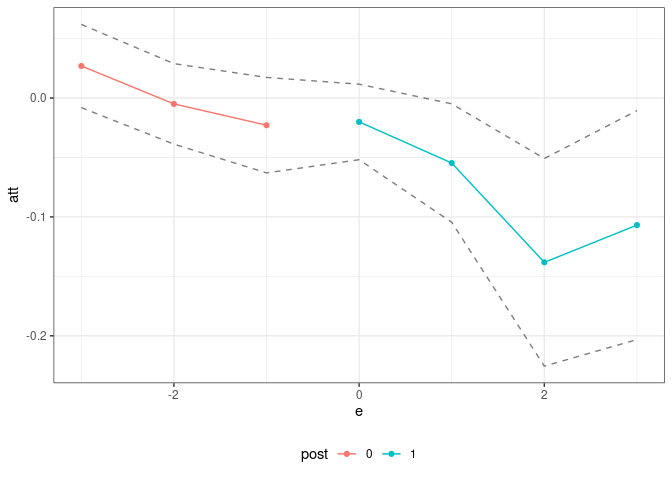
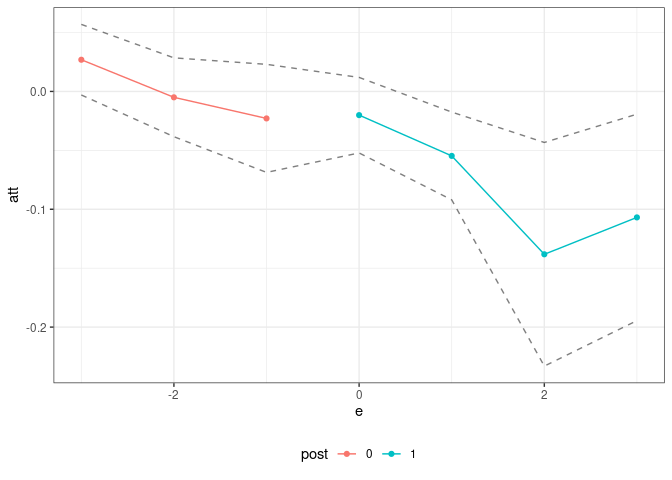
updated documentation

diff --git a/README.md b/README.md
@@ -37,18 +37,18 @@ summary(did_res)
 #> 
 #> Overall ATT:  
 #>      ATT    Std. Error     [ 95%  Conf. Int.]  
-#>  -0.0323        0.0107    -0.0532     -0.0113 *
+#>  -0.0323        0.0131    -0.0579     -0.0066 *
 #> 
 #> 
 #> Dynamic Effects:
 #>  Event Time Estimate Std. Error   [95%  Conf. Band]  
-#>          -3   0.0269     0.0122 -0.0081      0.0619  
-#>          -2  -0.0050     0.0118 -0.0388      0.0289  
-#>          -1  -0.0229     0.0140 -0.0630      0.0173  
-#>           0  -0.0201     0.0111 -0.0519      0.0116  
-#>           1  -0.0547     0.0174 -0.1045     -0.0049 *
-#>           2  -0.1382     0.0305 -0.2255     -0.0509 *
-#>           3  -0.1069     0.0337 -0.2032     -0.0106 *
+#>          -3   0.0269     0.0108 -0.0030      0.0569  
+#>          -2  -0.0050     0.0120 -0.0384      0.0285  
+#>          -1  -0.0229     0.0165 -0.0687      0.0230  
+#>           0  -0.0201     0.0115 -0.0522      0.0119  
+#>           1  -0.0547     0.0134 -0.0920     -0.0175 *
+#>           2  -0.1382     0.0341 -0.2331     -0.0433 *
+#>           3  -0.1069     0.0315 -0.1945     -0.0193 *
 #> ---
 #> Signif. codes: `*' confidence band does not cover 0
 ggpte(did_res)
@@ -81,52 +81,48 @@ covid_res <- pte(yname="positive",
                  xformla=xformla,
                  max_e=21,
                  min_e=-10) 
-#> Warning in compute.aggte(MP = MP, type = type, balance_e = balance_e, min_e
-#> = min_e, : Simultaneous conf. band is somehow smaller than pointwise one
-#> using normal approximation. Since this is unusual, we are reporting pointwise
-#> confidence intervals
 
 summary(covid_res)
 #> 
 #> Overall ATT:  
 #>      ATT    Std. Error     [ 95%  Conf. Int.] 
-#>  14.8882       78.8621  -139.6787     169.455 
+#>  14.8882        77.553  -137.1129    166.8892 
 #> 
 #> 
 #> Dynamic Effects:
-#>  Event Time Estimate Std. Error     [95%  Conf. Band] 
-#>         -10  -3.7266     3.8567  -14.1757      6.7224 
-#>          -9   2.6607     1.6111   -1.7044      7.0257 
-#>          -8   0.8290     2.5378   -6.0467      7.7047 
-#>          -7   5.2843     1.9881   -0.1020     10.6707 
-#>          -6   2.8555     1.9138   -2.3297      8.0408 
-#>          -5   1.3589     3.6701   -8.5845     11.3024 
-#>          -4   0.3294     3.6304   -9.5066     10.1653 
-#>          -3  -4.2227     4.6770  -16.8943      8.4490 
-#>          -2  -3.8447     3.5066  -13.3453      5.6558 
-#>          -1  -0.2234     4.7110  -12.9870     12.5402 
-#>           0 -10.8156     8.6978  -34.3808     12.7495 
-#>           1 -13.7998    13.9226  -51.5209     23.9213 
-#>           2  -7.8432    10.1647  -35.3827     19.6964 
-#>           3  -4.5541    13.3483  -40.7191     31.6108 
-#>           4  -3.5368    10.6750  -32.4591     25.3854 
-#>           5   8.5221    14.6706  -31.2256     48.2698 
-#>           6   1.1140    18.1890  -48.1660     50.3940 
-#>           7   6.6384    24.6226  -60.0725     73.3494 
-#>           8   7.1288    26.3708  -64.3186     78.5762 
-#>           9  10.8758    27.1115  -62.5782     84.3299 
-#>          10  17.5057    32.5995  -70.8174    105.8288 
-#>          11  40.8318    39.6704  -66.6487    148.3122 
-#>          12  48.6134    54.2235  -98.2962    195.5230 
-#>          13  52.4228    52.1405  -88.8434    193.6890 
-#>          14  50.2000    58.8198 -109.1626    209.5626 
-#>          15  68.2960    82.2076 -154.4319    291.0239 
-#>          16  44.7305    67.6093 -138.4457    227.9067 
-#>          17  61.4670    82.9975 -163.4011    286.3351 
-#>          18  50.4635    97.0905 -212.5873    313.5143 
-#>          19  47.3392   119.9502 -277.6461    372.3245 
-#>          20  28.6326   120.7810 -298.6037    355.8689 
-#>          21   4.3445   118.7309 -317.3374    326.0265 
+#>  Event Time Estimate Std. Error     [95%  Conf. Band]  
+#>         -10  -3.7266     3.6125  -12.8736      5.4203  
+#>          -9   2.6607     1.7348   -1.7319      7.0533  
+#>          -8   0.8290     2.2388   -4.8396      6.4976  
+#>          -7   5.2843     1.8953    0.4855     10.0831 *
+#>          -6   2.8555     2.0560   -2.3502      8.0613  
+#>          -5   1.3589     3.7756   -8.2008     10.9187  
+#>          -4   0.3294     3.6367   -8.8787      9.5375  
+#>          -3  -4.2227     4.8141  -16.4120      7.9667  
+#>          -2  -3.8447     3.2166  -11.9893      4.2998  
+#>          -1  -0.2234     3.6594   -9.4889      9.0421  
+#>           0 -10.8156     9.9308  -35.9604     14.3291  
+#>           1 -13.7998    15.4408  -52.8962     25.2965  
+#>           2  -7.8432     8.5558  -29.5064     13.8201  
+#>           3  -4.5541    12.7291  -36.7843     27.6760  
+#>           4  -3.5368    10.5843  -30.3363     23.2627  
+#>           5   8.5221    13.0787  -24.5933     41.6375  
+#>           6   1.1140    22.1987  -55.0931     57.3211  
+#>           7   6.6384    22.9861  -51.5625     64.8394  
+#>           8   7.1288    24.8603  -55.8177     70.0753  
+#>           9  10.8758    32.6271  -71.7363     93.4880  
+#>          10  17.5057    35.6081  -72.6543    107.6657  
+#>          11  40.8318    45.3079  -73.8880    155.5516  
+#>          12  48.6134    48.9781  -75.3996    172.6264  
+#>          13  52.4228    69.6198 -123.8551    228.7007  
+#>          14  50.2000    58.7475  -98.5490    198.9490  
+#>          15  68.2960    73.9277 -118.8895    255.4816  
+#>          16  44.7305    63.8885 -117.0356    206.4967  
+#>          17  61.4670    81.1021 -143.8841    266.8181  
+#>          18  50.4635   120.0314 -253.4569    354.3839  
+#>          19  47.3392   105.1978 -219.0224    313.7008  
+#>          20  28.6326   120.8400 -277.3351    334.6003  
+#>          21   4.3445   151.1525 -378.3746    387.0637  
 #> ---
 #> Signif. codes: `*' confidence band does not cover 0
 ggpte(covid_res) + ylim(c(-1000,1000))
